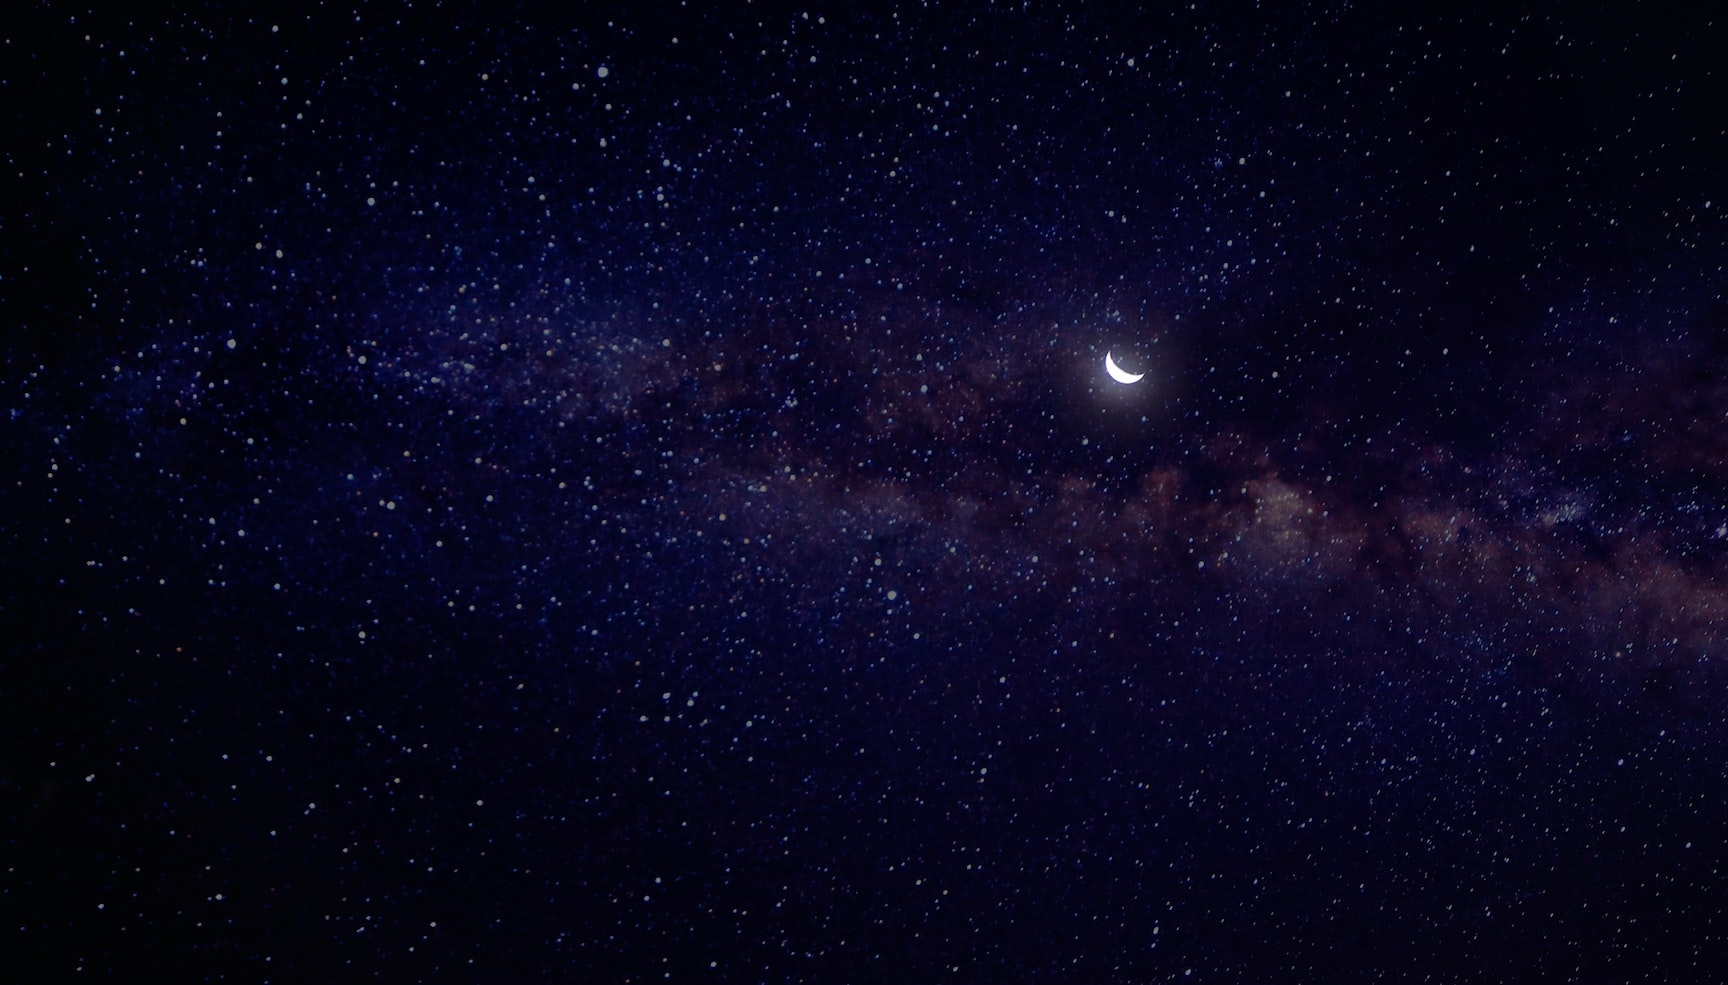
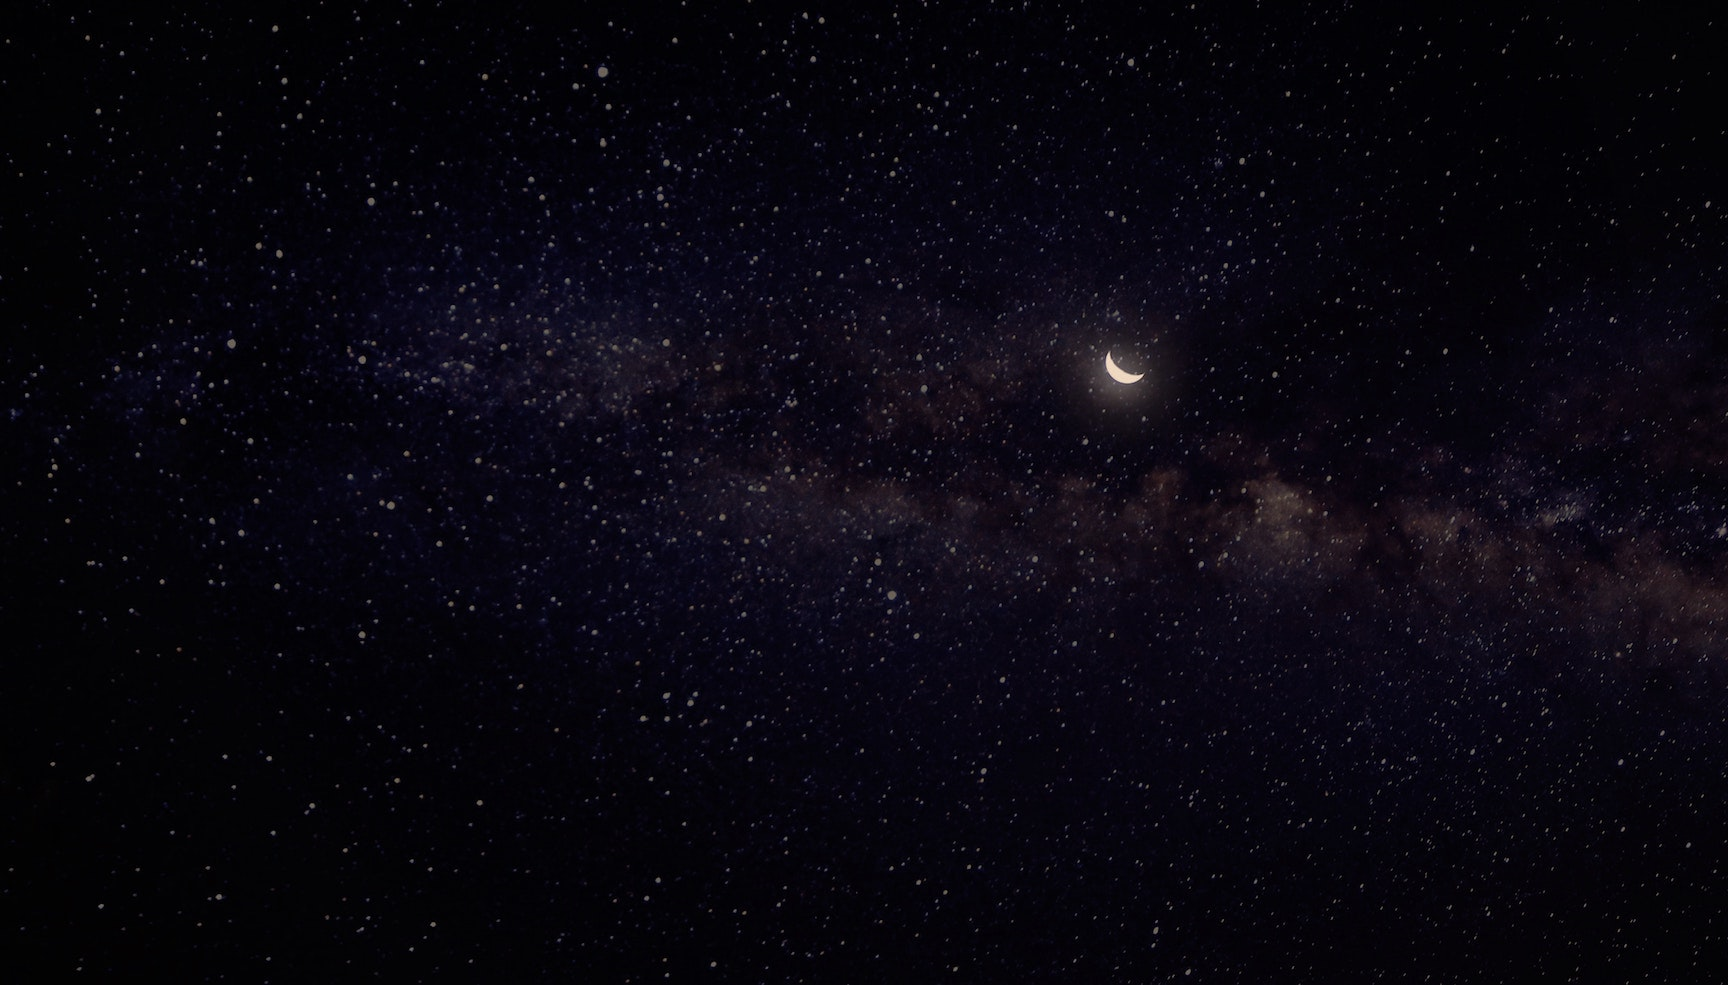
Adjust color on background image.

diff --git a/css/styles.css b/css/styles.css
@@ -4,7 +4,7 @@ h1, h2, h3 {
 }
 
 body {
-  background-color: #030209;
+  background-color: black;
   font-family: "Nunito", sans-serif;
 }
 
@@ -28,14 +28,14 @@ li {
 }
 
 .well {
-  background-color: #030209;
+  background-color: black;
   border: 1px solid white;
 }
 
 
 /* NOTE: HAL css */
 .notification {
-    margin: 5% auto; /* NOTE: Addition by BLF */
+    margin: 2% auto; /* NOTE: Addition by BLF */
     background: #2D2A2B;
     background-image: -webkit-gradient(linear, 0 0, 0 100%, from(#494852), to(#2A2A30));
     background-image: -webkit-linear-gradient(#494852, #2A2A30);

diff --git a/index.html b/index.html
@@ -27,7 +27,7 @@
     <div class="container">
 
 <!-- NOTE: Input Form -->
-      <div class="well">
+      <div class="well" id="main">
         <form>
           <h2>Translator</h2>
           <div class="form-group">

diff --git a/js/scripts.js b/js/scripts.js
@@ -53,7 +53,7 @@ $(document).ready(function() {
         $("ul").prepend("<li>" + item + "</li>");
       });
     }
-
+    $("#main").fadeOut();
     $(".result").show();
   });
 });
